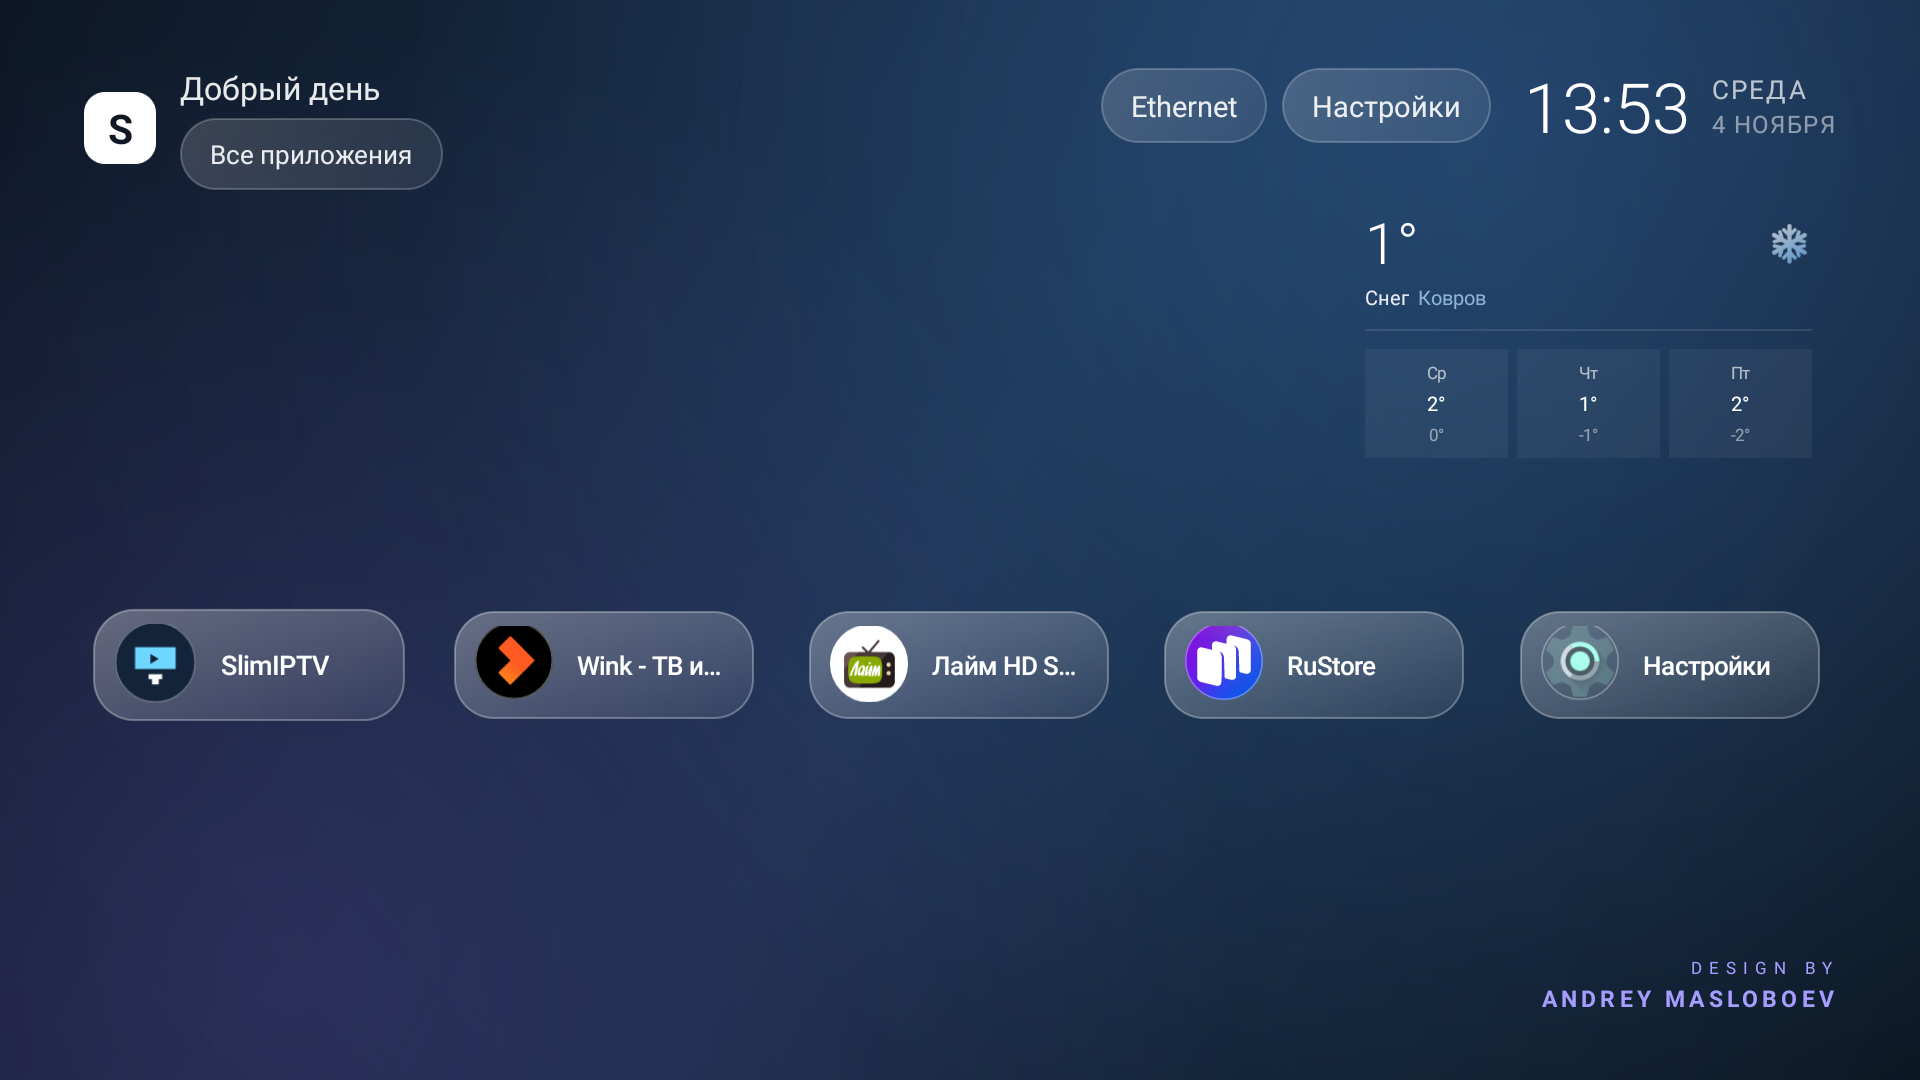
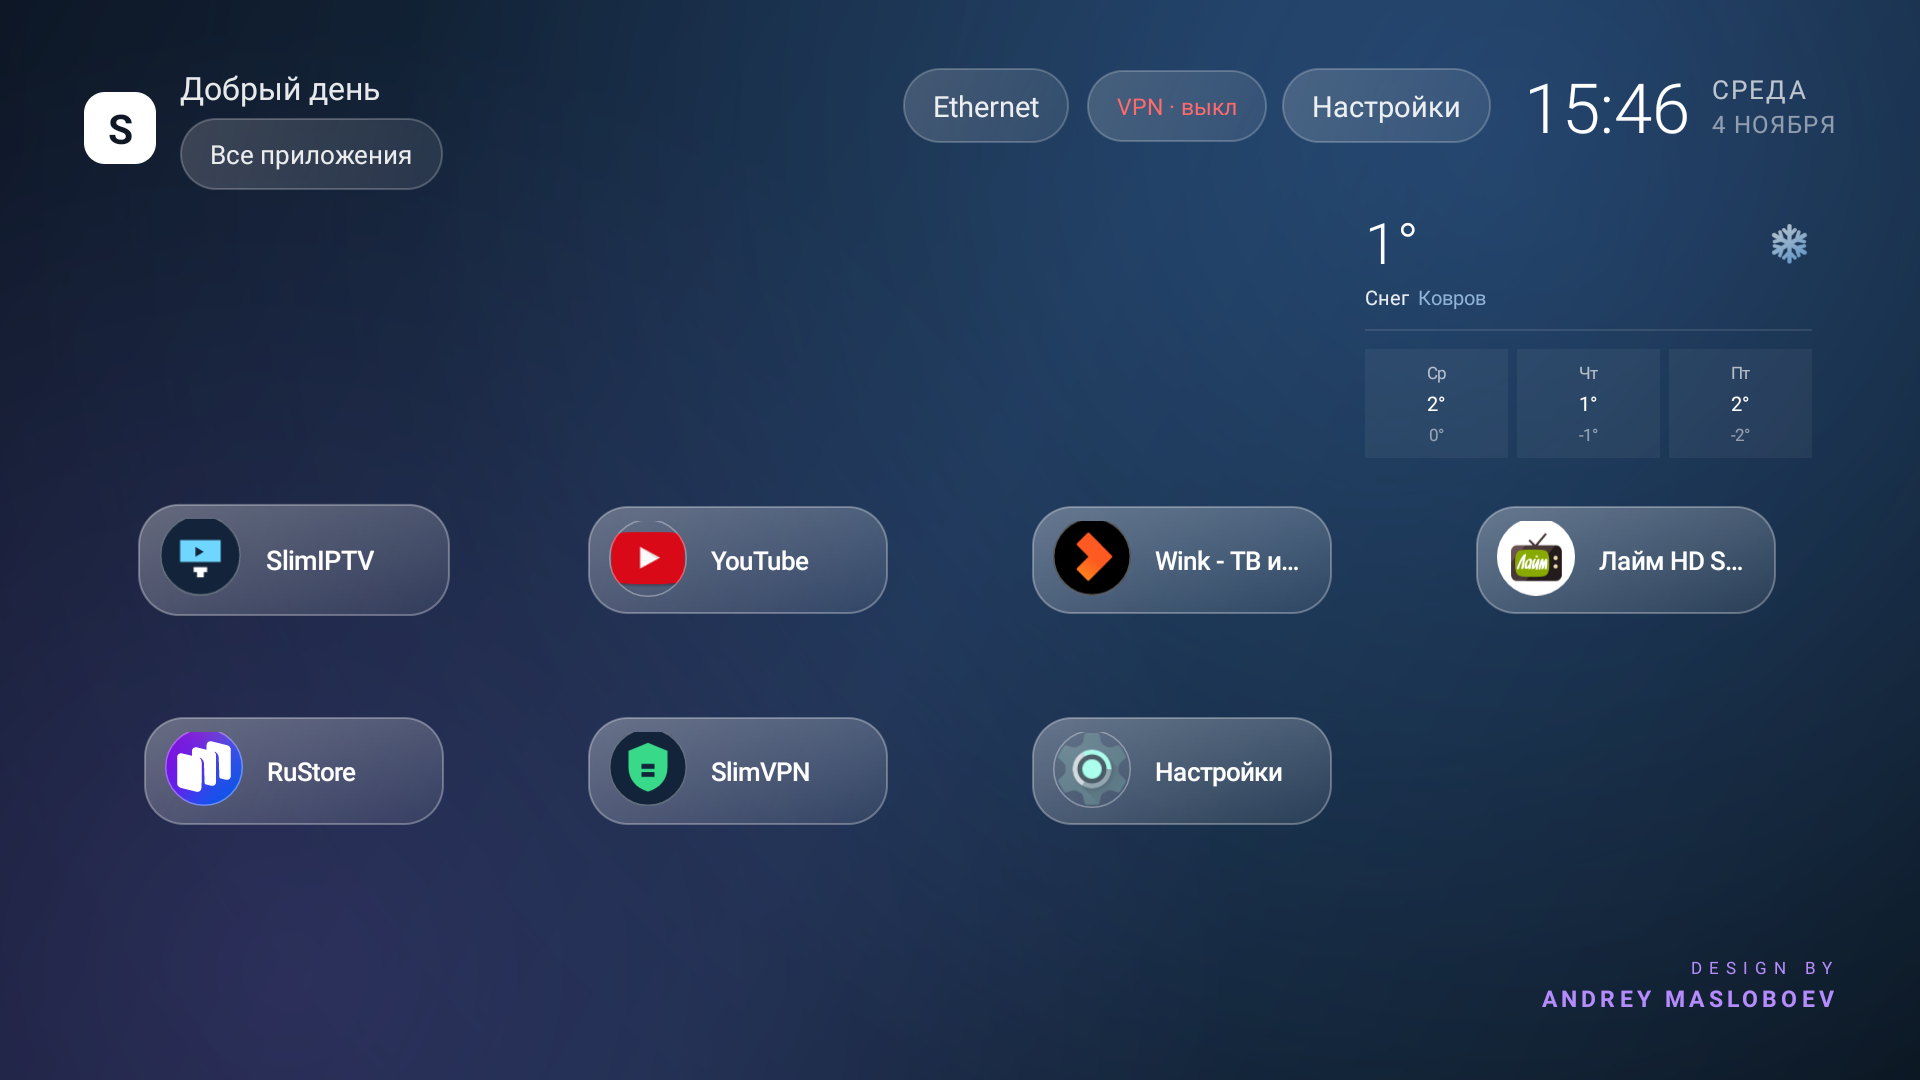
SlimHome 2.9: официальный YouTube, VPN-кнопка, стеклянный стиль

Changed region(s): [[0.0312, 0.4583, 0.9688, 0.7639], [0.4688, 0.0611, 0.6562, 0.1528], [0.8125, 0.0611, 0.875, 0.1222]]

diff --git a/app/src/main/java/com/slimhome/launcher/MainActivity.java b/app/src/main/java/com/slimhome/launcher/MainActivity.java
@@ -200,8 +200,8 @@ public class MainActivity extends Activity {
         // цифры 1–5: запуск закреплённых приложений
         if (code >= KeyEvent.KEYCODE_1 && code <= KeyEvent.KEYCODE_5) {
             int idx = code - KeyEvent.KEYCODE_1;
-            String[] quick = {"com.slimiptv.player", "ru.rt.video.app.tv", "tv.limehd.stb",
-                    "ru.vk.store.tv", "com.android.tv.settings"};
+            String[] quick = {"com.slimiptv.player", "com.google.android.youtube.tv", "ru.rt.video.app.tv",
+                    "tv.limehd.stb", "ru.vk.store.tv"};
             if (idx < quick.length) {
                 android.content.Intent qi = getPackageManager().getLaunchIntentForPackage(quick[idx]);
                 if (qi != null) { qi.addFlags(android.content.Intent.FLAG_ACTIVITY_NEW_TASK); startActivity(qi); return true; }
@@ -711,6 +711,7 @@ public class MainActivity extends Activity {
         // закреплённые приложения идут первыми, дальше — по алфавиту
         final List<String> pinned = java.util.Arrays.asList(
                 "com.slimiptv.player",     // SlimIPTV — первым на главном экране
+                "com.google.android.youtube.tv", // официальный YouTube для ТВ
                 "ru.rt.video.app.tv",      // Wink
                 "tv.limehd.stb",           // Лайм HD
                 "ru.vk.store.tv",          // RuStore
@@ -767,7 +768,7 @@ public class MainActivity extends Activity {
         for (int r = 1; r <= 3 && perRow == 0; r++) {
             int cols = (int) Math.ceil(n / (double) r);
             if (cols < 1) cols = 1;
-            if (cols > 8) continue;
+            if (cols > 5) continue;
             int w = (gridW - gapX * (cols - 1)) / cols;
             int h = (gridH - gapY * (r - 1)) / r;
             if (w >= minTileW && h >= minTileH) {

diff --git a/CHANGELOG.md b/CHANGELOG.md
@@ -1,30 +1,43 @@
 # Изменения
 
-## 2.0 — стиль Apple / стекло
+## 2.9
 
-- все поверхности переведены на «стекло»: плитки, таблетки, карточка погоды, панели;
-- скругления 26–34dp, тонкие светлые обводки, мягкие градиентные блики;
-- подписи плиток в одну строку с многоточием, одинаковая ширина плашек в ряду;
-- карточка погоды получила пастельный градиент под температуру: мороз — синеватый, тепло — зелёный, жара — тёплый;
-- настройка «Прозрачность погоды» (25 / 50 / 75 / 90 %);
-- в фокусе текст на стекле становится тёмным — читается на белом.
+- официальный YouTube (`com.google.android.youtube.tv`) закреплён вторым на главном экране (цифра 2 на пульте);
+- в сетке не больше 5 колонок, подписи плиток не обрезаются;
+- кнопка VPN в верхней панели: зелёная при поднятом туннеле, красная при выключенном.
 
-## 1.6
+## 2.8
 
-- компактная карточка погоды и экран настроек вида.
+- SmartTube вместо официального YouTube (отменено в 2.9).
 
-## 1.5
+## 2.7
 
-- адаптивная сетка под разрешение экрана.
+- кнопка VPN со статусом.
 
-## 1.4
+## 2.6
 
-- плитка «Настройки» возвращена.
+- цифры 1–5 запускают закреплённые приложения, вход в настройки из панели «Все приложения».
 
-## 1.3
+## 2.5
 
-- исправлена кодировка русского текста.
+- фон карточки погоды отключается.
 
-## 1.0–1.2
+## 2.4
 
-- первые релизы, скрытие плиток, автозапуск IPTV.
+- карточка погоды вписана в фон.
+
+## 2.3
+
+- анимации иконок.
+
+## 2.2
+
+- круглые иконки.
+
+## 2.0
+
+- стеклянный стиль.
+
+## 1.0–1.9
+
+- базовый лаунчер: сетка, погода, подсветка, настройки вида.
